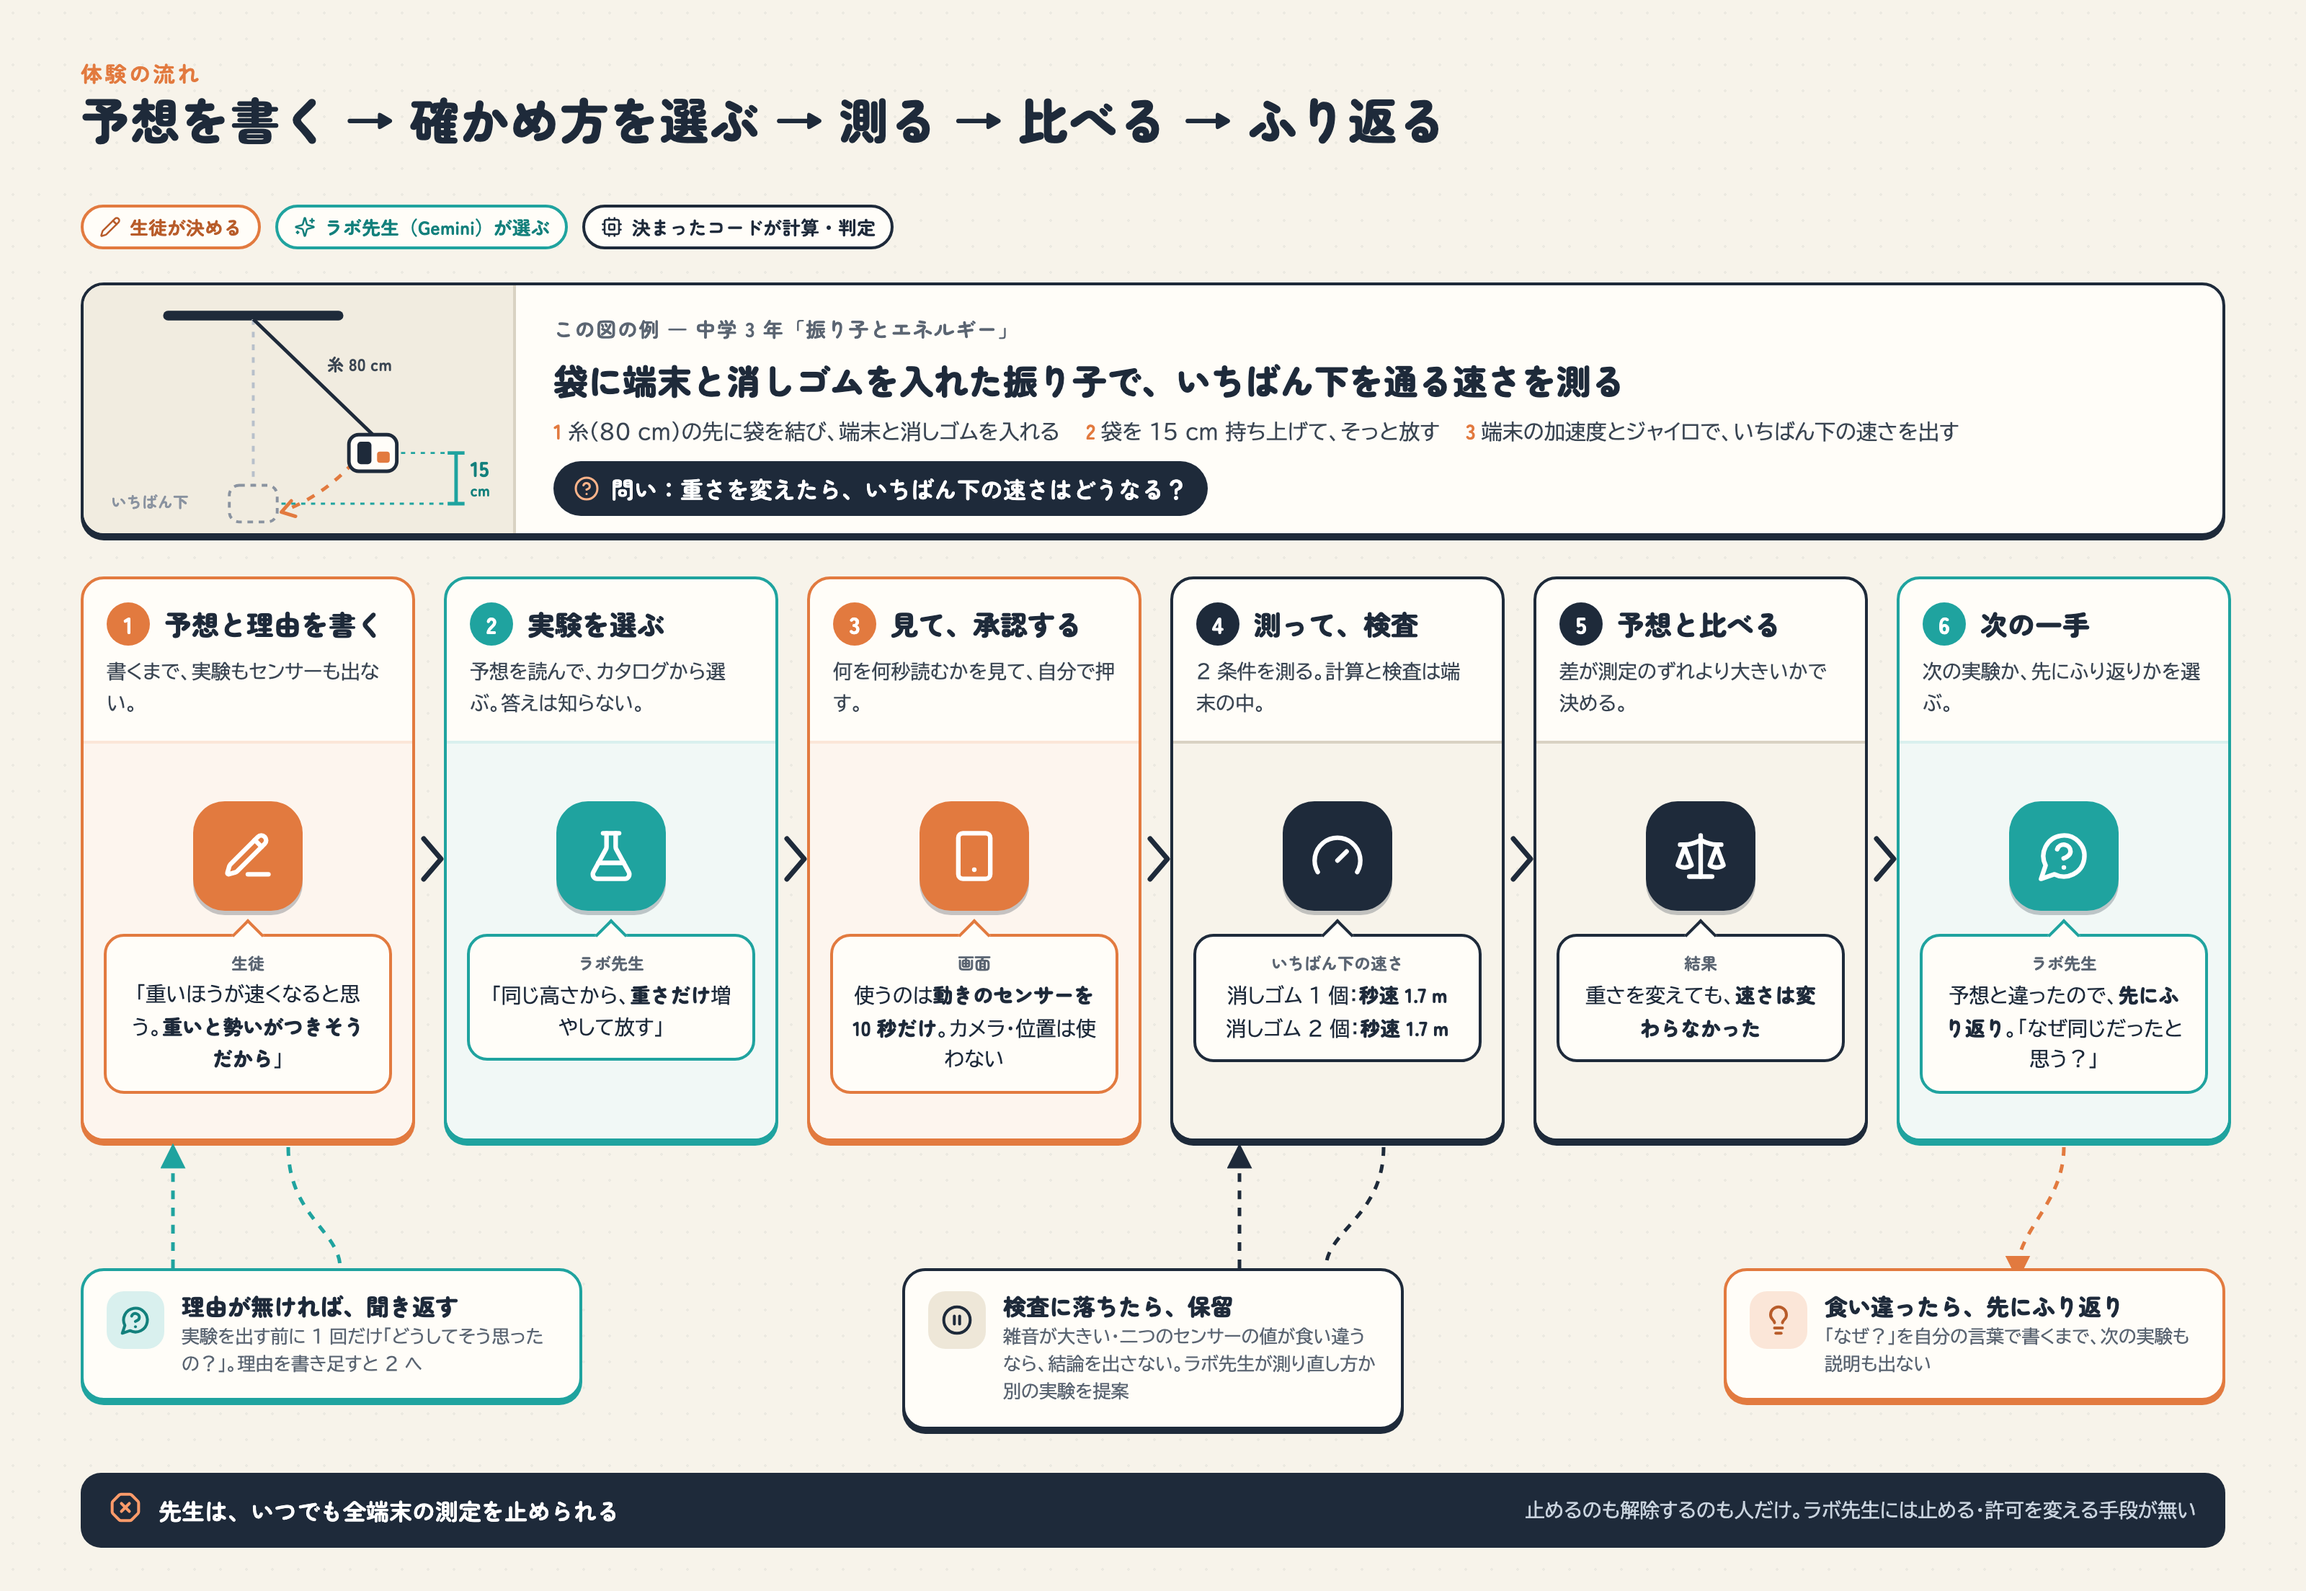
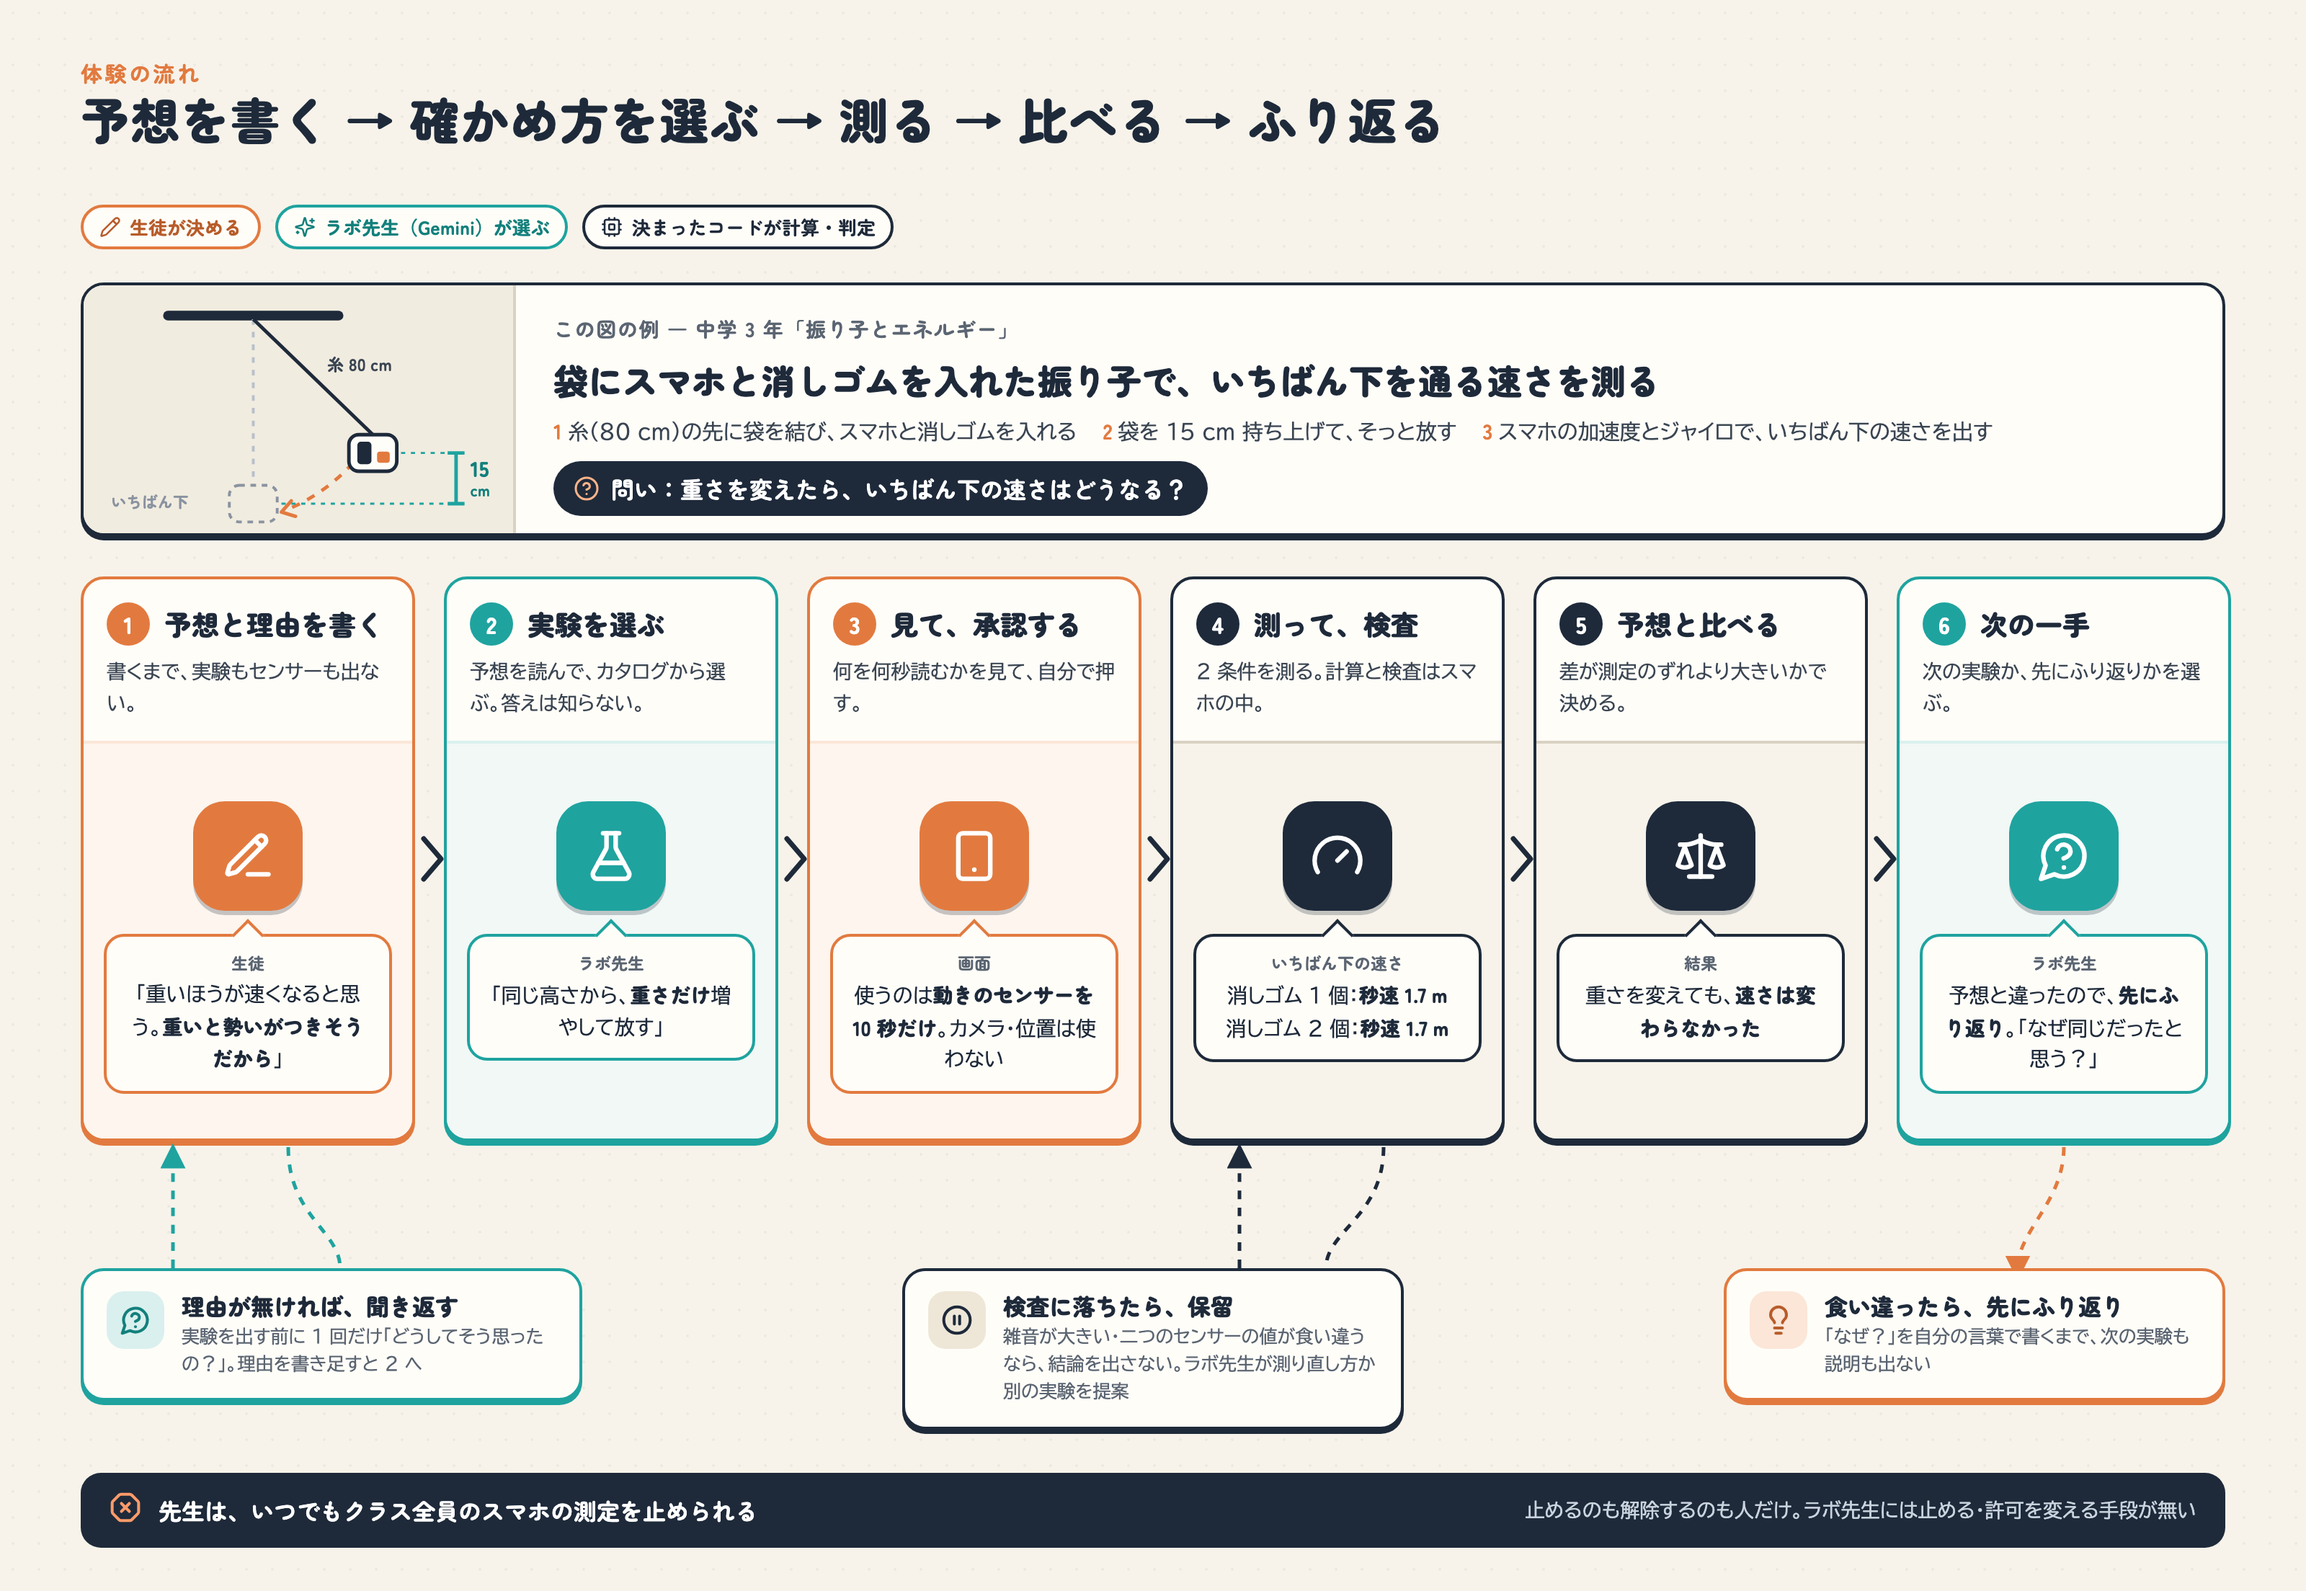
docs(zenn): 体験の流れの図の「端末」を「スマホ」に

Changed region(s): [[0.25, 0.2188, 0.875, 0.2812], [0.1562, 0.9375, 0.3125, 0.9688]]

diff --git a/docs/zenn-images/diagrams/flow.html b/docs/zenn-images/diagrams/flow.html
@@ -61,7 +61,7 @@
       <!-- 振れる道すじ -->
       <path d="M188.9 126.0 A 130 130 0 0 1 140 160" fill="none" stroke="#e27a3f" stroke-width="2.5" stroke-dasharray="6 6"/>
       <path d="M148 164 L138 161 L145 153" fill="none" stroke="#e27a3f" stroke-width="2.5" stroke-linecap="round" stroke-linejoin="round"/>
-      <!-- 持ち上げた袋：端末と消しゴム -->
+      <!-- 持ち上げた袋：スマホと消しゴム -->
       <path d="M118 24 L202.9 106.0" stroke="#1e2a3a" stroke-width="2.5"/>
       <rect x="185.9" y="106.0" width="34" height="26" rx="7" fill="#fffdf8" stroke="#1e2a3a" stroke-width="2.5"/>
       <rect x="191.9" y="111.0" width="10" height="16" rx="2.5" fill="#1e2a3a"/>
@@ -77,11 +77,11 @@
     </svg>
     <div class="body">
       <div class="ex">この図の例 ― 中学 3 年「振り子とエネルギー」</div>
-      <div class="title">袋に端末と消しゴムを入れた振り子で、いちばん下を通る速さを測る</div>
+      <div class="title">袋にスマホと消しゴムを入れた振り子で、いちばん下を通る速さを測る</div>
       <div class="steps3">
-        <span><b>1</b>糸（80 cm）の先に袋を結び、端末と消しゴムを入れる</span>
+        <span><b>1</b>糸（80 cm）の先に袋を結び、スマホと消しゴムを入れる</span>
         <span><b>2</b>袋を 15 cm 持ち上げて、そっと放す</span>
-        <span><b>3</b>端末の加速度とジャイロで、いちばん下の速さを出す</span>
+        <span><b>3</b>スマホの加速度とジャイロで、いちばん下の速さを出す</span>
       </div>
       <div class="q"><i data-lucide="help-circle"></i>問い：重さを変えたら、いちばん下の速さはどうなる？</div>
     </div>
@@ -105,7 +105,7 @@
   </div>
   <div class="card step" style="left:812px">
     <div class="head"><span class="num">4</span><span class="title">測って、検査</span></div>
-    <div class="desc">2 条件を測る。計算と検査は端末の中。</div>
+    <div class="desc">2 条件を測る。計算と検査はスマホの中。</div>
     <div class="art"><div class="big"><i data-lucide="gauge"></i></div><div class="bubble"><span class="who">いちばん下の速さ</span>消しゴム 1 個：<b>秒速 1.7 m</b><br/>消しゴム 2 個：<b>秒速 1.7 m</b></div></div>
   </div>
   <div class="card step" style="left:1064px">
@@ -156,6 +156,6 @@
     <div><div class="title">食い違ったら、先にふり返り</div><div class="small">「なぜ？」を自分の言葉で書くまで、次の実験も説明も出ない</div></div>
   </div>
 
-  <div class="halt"><span class="icon"><i data-lucide="octagon-x"></i></span>先生は、いつでも全端末の測定を止められる<small>止めるのも解除するのも人だけ。ラボ先生には止める・許可を変える手段が無い</small></div>
+  <div class="halt"><span class="icon"><i data-lucide="octagon-x"></i></span>先生は、いつでもクラス全員のスマホの測定を止められる<small>止めるのも解除するのも人だけ。ラボ先生には止める・許可を変える手段が無い</small></div>
 </div>
 <script>lucide.createIcons();</script>
